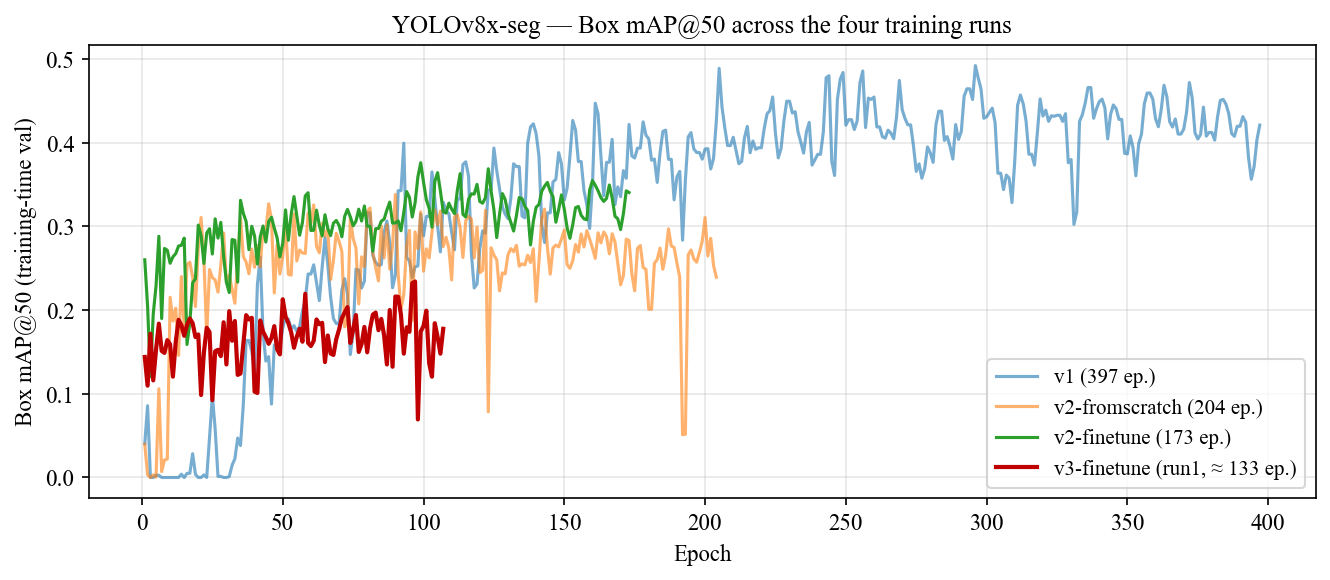
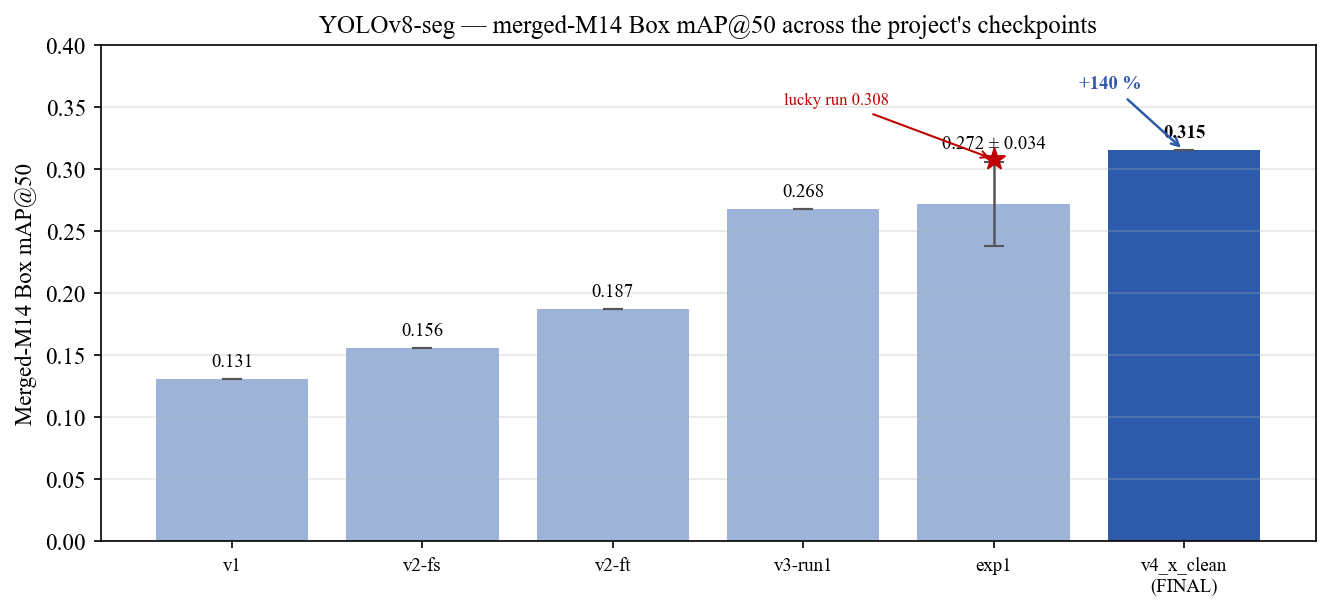
thesis: fix Fig 3.6 — it plotted training-time val, caption claimed M14
Fig 3.6 (yolo_all_runs_map50) overlaid the four runs' TRAINING-TIME
validation mAP@50 curves (each on its own, easier split — v1 peaked ~0.49),
while the caption described the held-out merged-M14 trajectory (v1 0.131 ->
v4 0.315) and even named runs that were not in the plot (the exp1 cluster,
v4_x_clean). Figure and caption were about different things.

Replaced the figure with a bar chart of the actual merged-M14 Box mAP@50 per
checkpoint (Table 3.2): v1 0.131, v2-fs 0.156, v2-ft 0.187, v3-run1 0.268,
exp1 0.272 +/- 0.034 (lucky-0.308 outlier marked) and v4_x_clean 0.315
(highlighted), with the +140% v1->v4 annotation. Caption updated to state the
axis is held-out merged-M14, not training-time validation.

Regenerated figure + LaTeX + PDF.

diff --git a/thesis/latex/chapters/chapter03/conclusion.tex b/thesis/latex/chapters/chapter03/conclusion.tex
@@ -184,8 +184,8 @@ The progression of the headline Box mAP@50 metric across all YOLO runs in the pr
 
 \begin{figure}
 \centering
-\pandocbounded{\includegraphics[keepaspectratio,alt={Box mAP@50 trajectory across every YOLO training run in the project. The horizontal axis is the run identifier in chronological order; the vertical axis is the merged-M14 Box mAP@50 of each run. The v1 baseline at 0.131 starts the chain; the v2-finetune at 0.187 (previous production) and the v3-finetune-run1 at 0.268 mark the iterative gains from dataset expansion; the three-replicate exp1 cluster shows the per-checkpoint variance band (mean 0.272 ± 0.034) around the lucky-single-run 0.308 result; and the final v4\_x\_clean at 0.315 (current production) closes the chain. The figure visually summarises both the +140 \% improvement from v1 to v4 and the variance noise floor that limits single-seed model comparisons.}]{figures/yolo_all_runs_map50.png}}
-\caption{\emph{Box mAP@50 trajectory across every YOLO training run in the project. The horizontal axis is the run identifier in chronological order; the vertical axis is the merged-M14 Box mAP@50 of each run. The v1 baseline at 0.131 starts the chain; the v2-finetune at 0.187 (previous production) and the v3-finetune-run1 at 0.268 mark the iterative gains from dataset expansion; the three-replicate exp1 cluster shows the per-checkpoint variance band (mean 0.272 ± 0.034) around the lucky-single-run 0.308 result; and the final v4\_x\_clean at 0.315 (current production) closes the chain. The figure visually summarises both the +140 \% improvement from v1 to v4 and the variance noise floor that limits single-seed model comparisons.}}
+\pandocbounded{\includegraphics[keepaspectratio,alt={Merged-M14 Box mAP@50 across the project's main YOLO checkpoints. The horizontal axis is the checkpoint identifier in chronological order; the vertical axis is the held-out merged-M14 Box mAP@50 of each one (Table 3.2), not the training-time validation score. The v1 baseline at 0.131 starts the chain; the v2-finetune at 0.187 (previous production) and the v3-finetune-run1 at 0.268 mark the iterative gains from dataset expansion; the three-replicate exp1 cluster shows the per-checkpoint variance band (mean 0.272 ± 0.034) around the lucky-single-run 0.308 result; and the final v4\_x\_clean at 0.315 (current production) closes the chain. The figure visually summarises both the +140 \% improvement from v1 to v4 and the variance noise floor that limits single-seed model comparisons.}]{figures/yolo_all_runs_map50.png}}
+\caption{\emph{Merged-M14 Box mAP@50 across the project's main YOLO checkpoints. The horizontal axis is the checkpoint identifier in chronological order; the vertical axis is the held-out merged-M14 Box mAP@50 of each one (Table 3.2), not the training-time validation score. The v1 baseline at 0.131 starts the chain; the v2-finetune at 0.187 (previous production) and the v3-finetune-run1 at 0.268 mark the iterative gains from dataset expansion; the three-replicate exp1 cluster shows the per-checkpoint variance band (mean 0.272 ± 0.034) around the lucky-single-run 0.308 result; and the final v4\_x\_clean at 0.315 (current production) closes the chain. The figure visually summarises both the +140 \% improvement from v1 to v4 and the variance noise floor that limits single-seed model comparisons.}}
 \end{figure}
 
 The per-detection precision-recall trade-off of the v2-finetune checkpoint is shown in Figure 3.7. The Box and Mask PR curves are produced by sweeping the inference confidence threshold from 1.0 to 0.0 and integrating the resulting Precision-Recall trajectory; the area under each curve is the corresponding mAP@50.

diff --git a/thesis/gen_figures.py b/thesis/gen_figures.py
@@ -81,25 +81,35 @@ except Exception as e:
     print(f"SKIP yolo_v2_finetune_training_curves: {e}")
 
 
-# ── Figure 3: All four YOLO runs — mAP@50 comparison ────────────────────────
+# ── Figure 3.6: merged-M14 Box mAP@50 per checkpoint (the cross-run trajectory) ─
+# IMPORTANT: this plots the held-out merged-M14 Box mAP@50 of each checkpoint
+# (Table 3.2 values) — NOT training-time val, which is measured on each run's own
+# (smaller, easier) split and is therefore not comparable across runs.
 try:
-    dv1  = load_csv("astana_tiled_x_max")
-    dv2s = load_csv("astana_tiled_x_v2_fromscratch")
-    dv2f = load_csv("astana_tiled_x_v2_finetune")
-    try:
-        dv3 = load_csv("astana_tiled_x_v3_finetune")
-    except Exception:
-        dv3 = None
-
-    fig, ax = plt.subplots(figsize=(9, 4))
-    ax.plot(dv1["epoch"],  dv1["metrics/mAP50(B)"],  label="v1 (397 ep.)", alpha=0.6)
-    ax.plot(dv2s["epoch"], dv2s["metrics/mAP50(B)"], label="v2-fromscratch (204 ep.)", alpha=0.6)
-    ax.plot(dv2f["epoch"], dv2f["metrics/mAP50(B)"], label="v2-finetune (173 ep.)", linewidth=1.5)
-    if dv3 is not None:
-        ax.plot(dv3["epoch"], dv3["metrics/mAP50(B)"], label="v3-finetune (run1, ≈ 133 ep.)", linewidth=2.0, color="#C00000")
-    ax.set_xlabel("Epoch"); ax.set_ylabel("Box mAP@50 (training-time val)")
-    ax.set_title("YOLOv8x-seg — Box mAP@50 across the four training runs")
-    ax.legend(); ax.grid(alpha=0.3)
+    runs = ["v1", "v2-fs", "v2-ft", "v3-run1", "exp1", "v4_x_clean\n(FINAL)"]
+    m14  = [0.131, 0.156, 0.187, 0.268, 0.272, 0.315]   # exp1 = 3-replicate mean
+    yerr = [0.0,   0.0,   0.0,   0.0,   0.034, 0.0]      # only exp1 carries a variance band
+    champ = len(runs) - 1
+    fig, ax = plt.subplots(figsize=(9, 4.2))
+    colors = ["#9DB4D8"] * len(runs); colors[champ] = "#2E5AAC"
+    ax.bar(range(len(runs)), m14, yerr=yerr, color=colors,
+           capsize=5, error_kw=dict(ecolor="#555555", lw=1.2))
+    for i, v in enumerate(m14):
+        lab = f"{v:.3f} ± 0.034" if yerr[i] else f"{v:.3f}"
+        ax.text(i, v + (yerr[i] if yerr[i] else 0) + 0.007, lab, ha="center",
+                va="bottom", fontsize=9, fontweight="bold" if i == champ else "normal")
+    # exp1 lucky single-run outlier (the 0.308 result), marked above its mean bar
+    ax.scatter([4], [0.308], marker="*", s=110, color="#C00000", zorder=5)
+    ax.annotate("lucky run 0.308", xy=(4, 0.308), xytext=(2.9, 0.352),
+                fontsize=8, color="#C00000",
+                arrowprops=dict(arrowstyle="->", color="#C00000", lw=1))
+    ax.annotate("+140 %", xy=(champ, 0.315), xytext=(champ - 0.55, 0.365),
+                fontsize=9, fontweight="bold", color="#2E5AAC",
+                arrowprops=dict(arrowstyle="->", color="#2E5AAC", lw=1.2))
+    ax.set_xticks(range(len(runs))); ax.set_xticklabels(runs, fontsize=9)
+    ax.set_ylabel("Merged-M14 Box mAP@50"); ax.set_ylim(0, 0.40)
+    ax.set_title("YOLOv8-seg — merged-M14 Box mAP@50 across the project's checkpoints")
+    ax.grid(axis="y", alpha=0.3)
     fig.tight_layout()
     out = os.path.join(FIGURES, "yolo_all_runs_map50.png")
     fig.savefig(out, bbox_inches="tight")

diff --git a/thesis/05_chapter3.md b/thesis/05_chapter3.md
@@ -134,7 +134,7 @@ A critical preliminary measurement before launching the v3 fine-tune was an eval
 
 The progression of the headline Box mAP@50 metric across all YOLO runs in the project, including the systematic ablation experiments of Section 3.2, is visualised in Figure 3.6.
 
-![*Box mAP@50 trajectory across every YOLO training run in the project. The horizontal axis is the run identifier in chronological order; the vertical axis is the merged-M14 Box mAP@50 of each run. The v1 baseline at 0.131 starts the chain; the v2-finetune at 0.187 (previous production) and the v3-finetune-run1 at 0.268 mark the iterative gains from dataset expansion; the three-replicate exp1 cluster shows the per-checkpoint variance band (mean 0.272 ± 0.034) around the lucky-single-run 0.308 result; and the final v4_x_clean at 0.315 (current production) closes the chain. The figure visually summarises both the +140 % improvement from v1 to v4 and the variance noise floor that limits single-seed model comparisons.*](figures/yolo_all_runs_map50.png)
+![*Merged-M14 Box mAP@50 across the project's main YOLO checkpoints. The horizontal axis is the checkpoint identifier in chronological order; the vertical axis is the held-out merged-M14 Box mAP@50 of each one (Table 3.2), not the training-time validation score. The v1 baseline at 0.131 starts the chain; the v2-finetune at 0.187 (previous production) and the v3-finetune-run1 at 0.268 mark the iterative gains from dataset expansion; the three-replicate exp1 cluster shows the per-checkpoint variance band (mean 0.272 ± 0.034) around the lucky-single-run 0.308 result; and the final v4_x_clean at 0.315 (current production) closes the chain. The figure visually summarises both the +140 % improvement from v1 to v4 and the variance noise floor that limits single-seed model comparisons.*](figures/yolo_all_runs_map50.png)
 
 The per-detection precision-recall trade-off of the v2-finetune checkpoint is shown in Figure 3.7. The Box and Mask PR curves are produced by sweeping the inference confidence threshold from 1.0 to 0.0 and integrating the resulting Precision-Recall trajectory; the area under each curve is the corresponding mAP@50.
 
